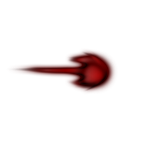
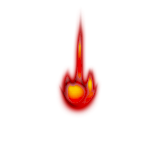
monster can shoot :) :p

Changed region(s): [[0.08, 0.08, 0.7733, 0.7733]]

diff --git a/js/funtions/gameLoop.js b/js/funtions/gameLoop.js
@@ -179,8 +179,26 @@ function GameLoop()
     }
 
     var monsterPartialMovementVal = 0;
-    function monsterTurn(monster, index, array)
+    function mbPartTurn(monster, index, array)
     {
+	var speed = getAvancement(monster.entity.speed, tdGetPourcentTurn());
+	monsterPartialMovementVal += speed;
+	if (monsterPartialMovementVal < 1)
+	{
+	    return ;
+	}
+	if (monsterPartialMovementVal > 1)
+	{
+	    speed = Math.floor(monsterPartialMovementVal);
+	    monsterPartialMovementVal -= Math.floor(monsterPartialMovementVal);
+	}
+	monster.move(this.turn, speed);
+	var domage = monster.checkCol();
+	if (domage !== 0)
+	{
+	    //monster.removeLife(domage);
+	    return;
+	}
     }
 
     function monsterPartTurn(monster, index, array)
@@ -217,10 +235,6 @@ function GameLoop()
 	}
     }
 
-    function bonusTurn(bonus, index, array)
-    {
-    }
-
     function effectTurn(effect, index, array)
     {
 	effect.removeLife();
@@ -232,16 +246,16 @@ function GameLoop()
 	bubble.move(this.turn, speed);
     }
 
-    function playerBubbleTurn(bubble, index, array)
-    {
-    }
-
     function nullTurn()
     {
     }
 
-    var entitysMovementsFunctions = new Array(nullTurn, playerBubbleTurn, bonusTurn, monsterTurn, effectTurn);
-    var entitysPartMovementsFunctions = new Array(nullTurn, playerBubblePartTurn, bonusPartTurn, monsterPartTurn, nullTurn);
+    var entitysMovementsFunctions = new Array(nullTurn, nullTurn, nullTurn,
+					      nullTurn, effectTurn);
+    var entitysPartMovementsFunctions = new Array(mbPartTurn,
+						  playerBubblePartTurn,
+						  bonusPartTurn,
+						  monsterPartTurn, nullTurn);
 
     this.loseGame = function()
     {

diff --git a/js/game_level/patern01.js b/js/game_level/patern01.js
@@ -3,22 +3,22 @@ var patern1 = new Patern;
 paterns["patern1"] = patern1;
 
 //Vague I
-patern1.addMob(0, ship_testing, verticalLine, 70);
+patern1.addMob(0, ship1, verticalShooter, 70);
 patern1.addMob(0, ship_testing, verticalLine, 120);
 patern1.addMob(0, ship_testing, verticalLine, 170);
-patern1.addMob(0, ship_testing, verticalLine, 220);
+patern1.addMob(0, ship1, verticalShooter, 220);
 //Vague II
 patern1.addMob(10, fast_ship_testing, slow_zigzag, 100);
 patern1.addMob(10, fast_ship_testing, slow_zigzag, 500);
-patern1.addMob(10, ship_testing, zigzag, 300);
-patern1.addMob(10, ship_testing, zigzag, 400);
+patern1.addMob(10, ship1, zigzag, 300);
+patern1.addMob(10, ship1, zigzag, 400);
 //Vague III
-patern1.addMob(20, ship_testing, verticalLine, 270);
-patern1.addMob(20, ship_testing, verticalLine, 320);
-patern1.addMob(20, ship_testing, verticalLine, 370);
-patern1.addMob(20, ship_testing, verticalLine, 420);
+patern1.addMob(20, ship1, verticalShooter, 270);
+patern1.addMob(20, fast_ship_testing, verticalLine, 320);
+patern1.addMob(20, fast_ship_testing, verticalLine, 370);
+patern1.addMob(20, ship1, verticalShooter, 420);
 //Vague IV
-patern1.addMob(40, ship_testing, verticalLine, 70);
+patern1.addMob(40, ship1, verticalShooter, 70);
 patern1.addMob(40, ship_testing, verticalLine, 220);
 patern1.addMob(40, ship_testing, verticalLine, 370);
-patern1.addMob(40, ship_testing, verticalLine, 520);
+patern1.addMob(40, ship1, verticalShooter, 520);

diff --git a/js/funtions/Normes.js b/js/funtions/Normes.js
@@ -15,7 +15,8 @@ function    allocAnimation(w_frame, h_frame, number_frame, image, fps)
     var sy = 0;
     for (t = 0; t < number_frame ; ++t)
     {
-        drawing.drawImage(image, sx, sy, w_frame, h_frame, 0, 0, w_frame, h_frame);
+        drawing.drawImage(image, sx, sy, w_frame, h_frame,
+			  0, 0, w_frame, h_frame);
         sx = sx + w_frame;
         sy = sy + h_frame;
     }
@@ -75,11 +76,11 @@ function	getPaternFromString(str)
     return (paterns[str]);
 }
 
-/* ---------- 
+/* ----------
  * Partie : "Map Define"
  * Generation des apparitions
  * ---------- */
-function    Map(audio, randomMap)
+function    Map(audio, randomMap, paternFirst, paternLast)
 {
     this.randomMap = randomMap;
     this.length;
@@ -96,11 +97,18 @@ function    Map(audio, randomMap)
     {
 	var curTime = 0;
 	var totTime = that.length * 10;
+	if (!paternFirst)
+	    paternFirst = 0
+	if (!paternLast)
+	    paternLast = nbPatern + 1
 	while (curTime < totTime)
 	{
 	    //console.log(curTime);
-	    var patern = getPaternFromInt(Math.floor((Math.random()*nbPatern)+1));
-	    print("add patern at:", curTime, " / ", totTime)
+	    var patern_id = 0
+	    do {
+		patern_id = Math.floor((Math.random()*nbPatern)+1)
+	    } while (patern_id < paternFirst || patern_id >= paternLast);
+	    var patern = getPaternFromInt(patern_id);
 	    that.addPatern(curTime, patern);
 	    curTime += patern.length;
 	}

diff --git a/js/funtions/movement.js b/js/funtions/movement.js
@@ -96,6 +96,29 @@ function verticalLine(turn, speed)
     this.entity.x += speed * oriantation.x;
 }
 
+function verticalShooter(turn, speed)
+{
+    var oriantation = this.entity.oriant
+    var te = this.entity
+    var bb = mbubble
+    if (typeof(this.shoot_cnt) === 'undefined') {
+	this.shoot_cnt = 0;
+    } else {
+	this.shoot_cnt += 1
+    }
+    if (this.shoot_cnt == 1) {
+	print("Monster shoot !!!!!")
+	var b = new Bubble(bb, verticalLine, te.x + te.w / 2 - bb.width / 2,
+			   te.y - bb.height, 100, null, true)
+	monsterBulletManager.push(b);
+    }
+    this.shoot_cnt = this.shoot_cnt & 15;
+    speed = initSpeed(speed);
+    oriantation = checkOriantation(oriantation);
+    te.y += speed * oriantation.y;
+    te.x += speed * oriantation.x;
+}
+
 function oddShoot(turn, speed)
 {
     var oriantation = this.entity.oriant

diff --git a/js/funtions/Bubble.js b/js/funtions/Bubble.js
@@ -1,4 +1,4 @@
-function Bubble(type, move, x, y, power, o)
+function Bubble(type, move, x, y, power, o, isPjBb)
 {
     if (o)
 	print("x:", o.x, "y:", o.y)
@@ -6,10 +6,19 @@ function Bubble(type, move, x, y, power, o)
 	new Entity(x, y, type.width, type.height, playerBubble_type,
                    type.speed, power, o);
     this.type = type;
+    if (typeof(isPjBb) === 'undefined') {
+	this.isPjBb = true
+    } else {
+	this.isPjBb = false
+	this.checkCol = monsterCheckCol
+    }
     this.move = move;
 }
 
 Bubble.prototype.removeLife = removeLife;
 Bubble.prototype.deathEffects = function () {
-    removePlayerBullet(playerBulletManager.indexOf(this));
+    if (this.isPjBb)
+	removePlayerBullet(playerBulletManager.indexOf(this));
+    else
+	monsterBulletManager.splice(index, monsterBulletManager.indexOf);
 }

diff --git a/js/define/img.js b/js/define/img.js
@@ -18,6 +18,9 @@ img_background_testing.src = 'images/tilesetOpenGameBackground.png';
 var img_ship_testing = new Image();
 img_ship_testing.src = 'images/Spaceship004.png';
 
+var img_ship1 = new Image();
+img_ship1.src = 'images/Spaceship005.png';
+
 var img_player_testing = new Image();
 img_player_testing.src = 'images/set_1080/witch.png'
 
@@ -32,6 +35,9 @@ print(img_explode_testing.src)
 
 var spell1 = new Image();
 spell1.src = 'images/blood-magic/Blood-Magic-Effect_06.png';
+
+var m_spell = new Image();
+m_spell.src = 'images/blood-magic/Blood-Magic-Effect_22.png';
 
 var img_bonus = new Image();
 img_bonus.src = 'images/crystal-qubodup-ccby3-32-blue.png';

diff --git a/js/funtions/affichage.js b/js/funtions/affichage.js
@@ -47,6 +47,12 @@ function write_all() // you change this if you want
 	draw_entity(effectManager[i].entity.x, effectManager[i].entity.y,
 		    effectManager[i].type);
     }
+    for (i = 0; i < monsterBulletManager.length; ++i) {
+	draw_entity(monsterBulletManager[i].entity.x,
+		    monsterBulletManager[i].entity.y,
+		    monsterBulletManager[i].type);
+    }
+
     draw_text_top("Score: " + player.score, 0);
 
     draw_text_top("----- Spell -----", 1);

diff --git a/js/define/object.js b/js/define/object.js
@@ -2,9 +2,13 @@
 var ship_testing = addType(27, 30, img_ship_testing, 20);
 var fast_ship_testing = addType(27, 30, img_ship_testing, 30);
 
+var ship1 = addType(27, 30, img_ship1, 10);
+
 var player_testing = addType(30, 60, img_player_testing, 25);
 
 var bubble_testing = addType(30, 30, spell1, 35);
+
+var mbubble = addType(20, 40, m_spell, 35);
 
 var beam = addType(20, 40,  spell0, 35);
 

diff --git a/js/game_level/lvl_01.js b/js/game_level/lvl_01.js
@@ -9,7 +9,7 @@
 
 /* ---------- LVL I Testing ---------- */
 
-var map = new Map("battleThemeA.mp3", true)
+var map = new Map("battleThemeA.mp3", true, 2)
 var next_map = new Map("The Last Encounter (Extended Version).mp3", true);
 map.next = next_map
 /* *

diff --git a/js/funtions/colision.js b/js/funtions/colision.js
@@ -59,6 +59,7 @@ function monsterCheckCol() {
 	player.removeLife(this.entity.life);
 	return (player.entity.life);
     }
+
     for (i = 0; i < playerBulletManager.length; ++i)
     {
 	if (checkColWithMidlePlayer(this, playerBulletManager[i]))

diff --git a/html5-emu.js b/html5-emu.js
@@ -286,7 +286,6 @@ function js_emu_action(wid, eves)
 	    if (ywidEveType(eve) == YKEY_UP) {
 		var jsev = new Event_type()
 
-		print("up", ywidEveKey(eve))
 		jsev.keyCode = js_emu_conve_kcode(ywidEveKey(eve))
 		ku(jsev)
 	    }
